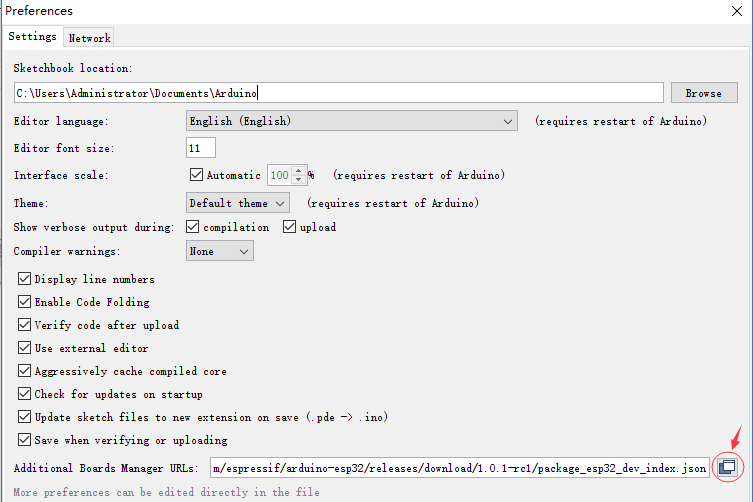
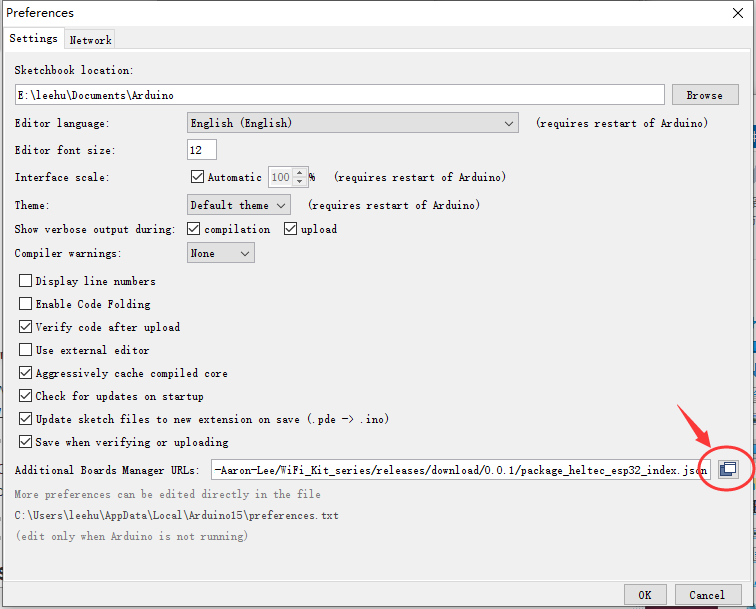
完成英文版安装指南

Changed region(s): [[0.0, 0.0, 1.0, 1.0], [0.4887, 0.6873, 0.5193, 0.7171]]

diff --git a/en/user_manual/how_to_install_esp32_Arduino.md b/en/user_manual/how_to_install_esp32_Arduino.md
@@ -22,71 +22,62 @@ Open Arduino IDE, and click `File`->`Peferences`->`Settings`
 
 <img src="img/how_to_install_esp32_Arduino/01.png">
 
-<img src="assets/img/getting_started_pics/m5stack_core/get_started_with_arduino_m5core/windows/quick_start_arduino_win_02.png">
+<img src="img/how_to_install_esp32_Arduino/02.png">
 
 Input last esp32 board manager URL
 
-*Now the last board manager URL: "https://github.com/Heltec-Aaron-Lee/WiFi_Kit_series/releases/download/0.0.1/package_heltec_esp32_index.json"*
+*Now the last board manager URL: https://github.com/Heltec-Aaron-Lee/WiFi_Kit_series/releases/download/0.0.1/package_heltec_esp32_index.json*
 
-<img src="assets/img/getting_started_pics/m5stack_core/get_started_with_arduino_m5core/windows/quick_start_arduino_win_03.png">
+<img src="img/how_to_install_esp32_Arduino/03.png">
 
 Click `Tools`->`Board:`->`Boards Manager...`, search `Heltec ESP32` in the new pop-up dialog, then click `install`
 
-<img src="assets/img/getting_started_pics/m5stack_core/get_started_with_arduino_m5core/windows/quick_start_arduino_win_04.png">
+<img src="img/how_to_install_esp32_Arduino/04.png">
 
-<img src="assets/img/getting_started_pics/m5stack_core/get_started_with_arduino_m5core/windows/quick_start_arduino_win_05.png">
+<img src="img/how_to_install_esp32_Arduino/05.jpg">
 
 ### Step2. Download the Heltec ESP32 Library
 
 Open Arduino IDE, then Select `Sketch`->`Include Library`->`Manage Libraries...`
 Search `Heltec ESP32` and install it
 
-<img src="assets/img/getting_started_pics/m5stack_core/get_started_with_arduino_m5core/windows/quick_start_arduino_win_06.png">
+<img src="img/how_to_install_esp32_Arduino/06.png">
 
-<img src="assets/img/getting_started_pics/m5stack_core/get_started_with_arduino_m5core/windows/quick_start_arduino_win_07.png">
+<img src="img/how_to_install_esp32_Arduino/07.jpg">
 
-!> **Note:** *As shown below, it means you need update*
-
-<img src="assets/img/getting_started_pics/m5stack_core/get_started_with_arduino_m5core/windows/update_m5stack_lib.png">
 
 ## Example
 
-This section for verifying whether you can program with Arduino or not. Now, The USB cable connects to M5Stack Core, then select your serial port which is connected M5Stack Core.
+This section for verifying whether you can program with Arduino or not. Now, The USB cable connects to Heltec ESP32 board, then select your serial port which is connected to Heltec ESP32 board.
 
 Select a demo example, compile and upload
 
 ### 1. Execute a example likes `FactoryTest.ino`
 
-Select your board name, baudrate, the specified serial port: M5Stack-Core-ESP32, 921600, COM4(Now, my serial port which is connected with PC is `COM4`)
+Correct select the board you had connected to computer and the specified serial port: e.g. WiFi Kit 32, WiFi LoRa 32, COM3(my PC is `COM3`)
 
-<img src="assets/img/getting_started_pics/m5stack_core/get_started_with_arduino_m5core/windows/select_board_baudrate_serial_port.png">
+<img src="img/how_to_install_esp32_Arduino/08.png">
 
-Then select an example likes `FactoryTest.ino`
+Then select an example likes `XXXXXX_FactoryTest.ino`
 
-<img src="assets/img/getting_started_pics/m5stack_core/get_started_with_arduino_m5core/windows/select_an_example.png">
+<img src="img/how_to_install_esp32_Arduino/09.png">
 
 Upload it
 
-<img src="assets/img/getting_started_pics/m5stack_core/get_started_with_arduino_m5core/windows/arduino_upload.png">
+<img src="img/how_to_install_esp32_Arduino/10.png">
 
-### 2. New a M5Stack program
+### 2. New a Heltec ESP32 program
 
-Open Arduino IDE, then new a `.ino` file, rename it as `my_test.ino`
-
-Copy the below code to my_test.ino
+Open Arduino IDE, then new a `.ino` file, then copy the below code.
 
 ```arduino
-#include <M5Stack.h>
+#include <heltec.h>
 
-// the setup routine runs once when M5Stack starts up
+// the setup routine runs once when starts up
 void setup(){
 
-  // Initialize the M5Stack object
-  M5.begin();
-
-  // LCD display
-  M5.Lcd.print("Hello World!");
-  M5.Lcd.print("M5Stack is running successfully!");
+  // Initialize the Heltec ESP32 object
+  Heltec.begin(true /*DisplayEnable Enable*/, true /*LoRa Disable*/, true /*Serial Enable*/, true /*PABOOST Enable*/, 470E6 /**/);
 }
 
 // the loop routine runs over and over again forever
@@ -95,6 +86,5 @@ void loop() {
 }
 ```
 
-compile it and upload, the M5Stack screen will show "Hello World!" "M5Stack is running successfully!"
+compile it and upload, the on board screen (if have) will show and Arduino's serial monitor will print something, it means Heltec ESP32 board is running successfully!
 
-?> *If you want to upgrade the M5Stack Lib, please view this article [upgrade M5Stack Lib](/en/related_documents/upgrade_m5stack_lib).*
